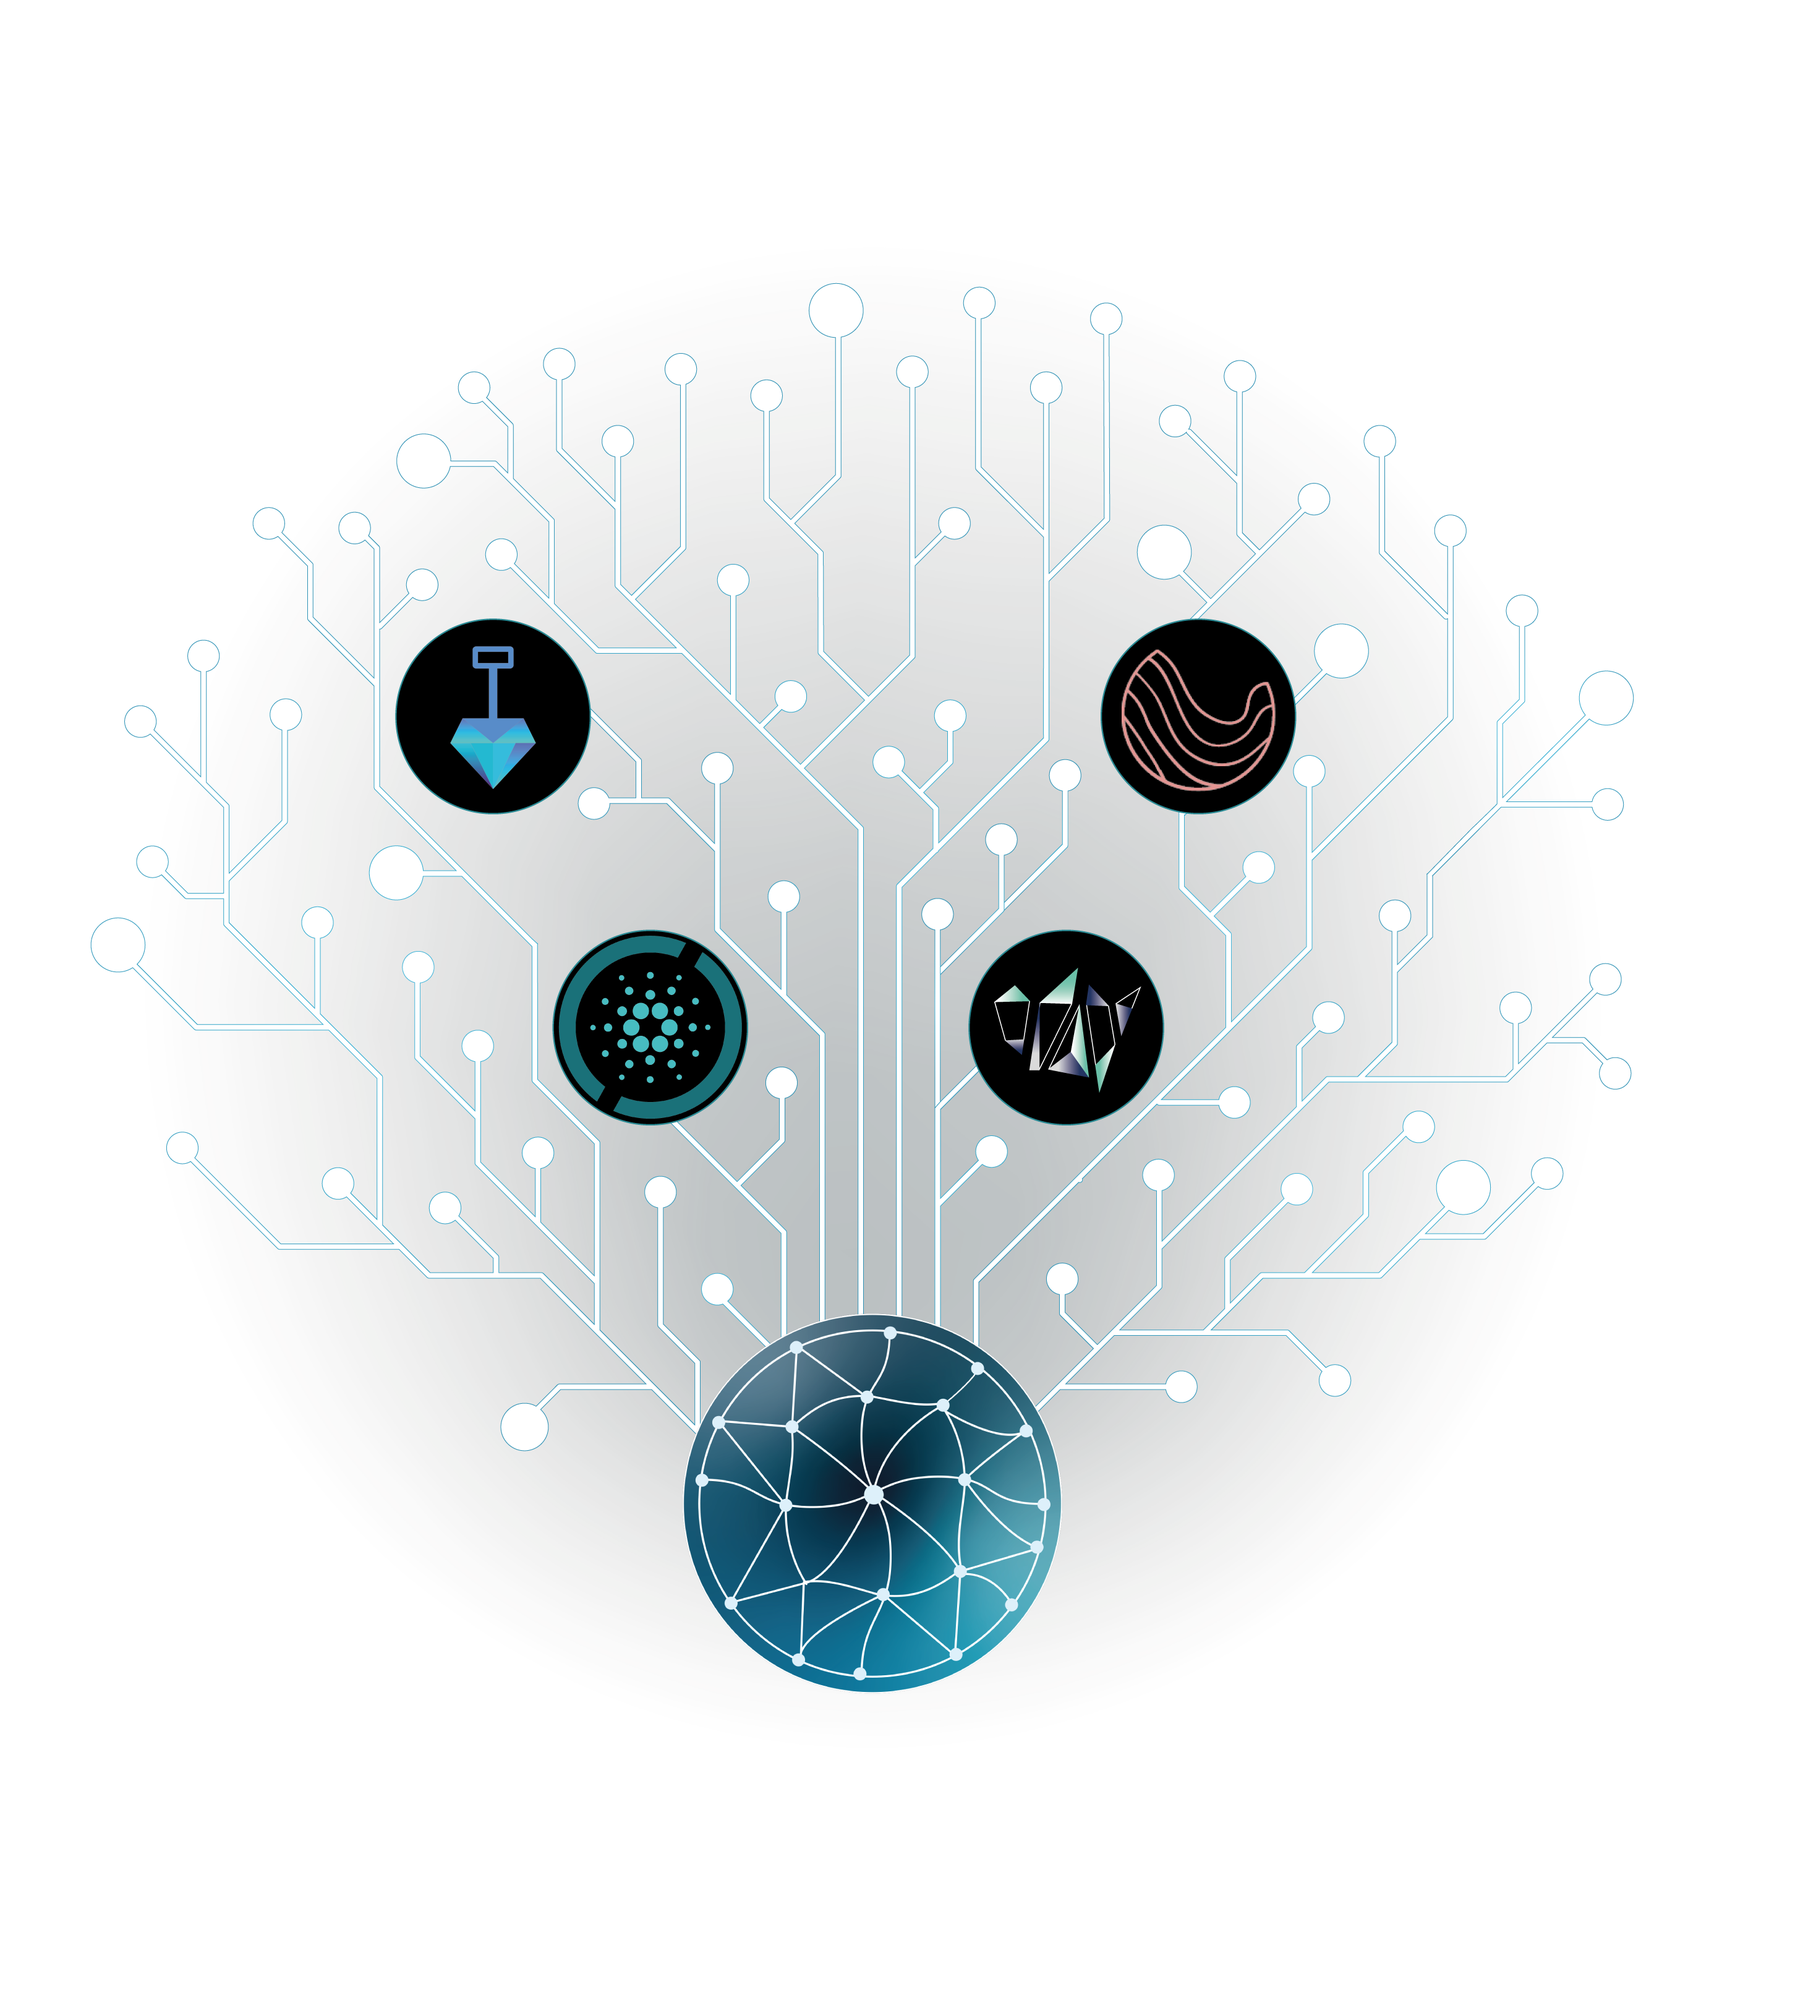
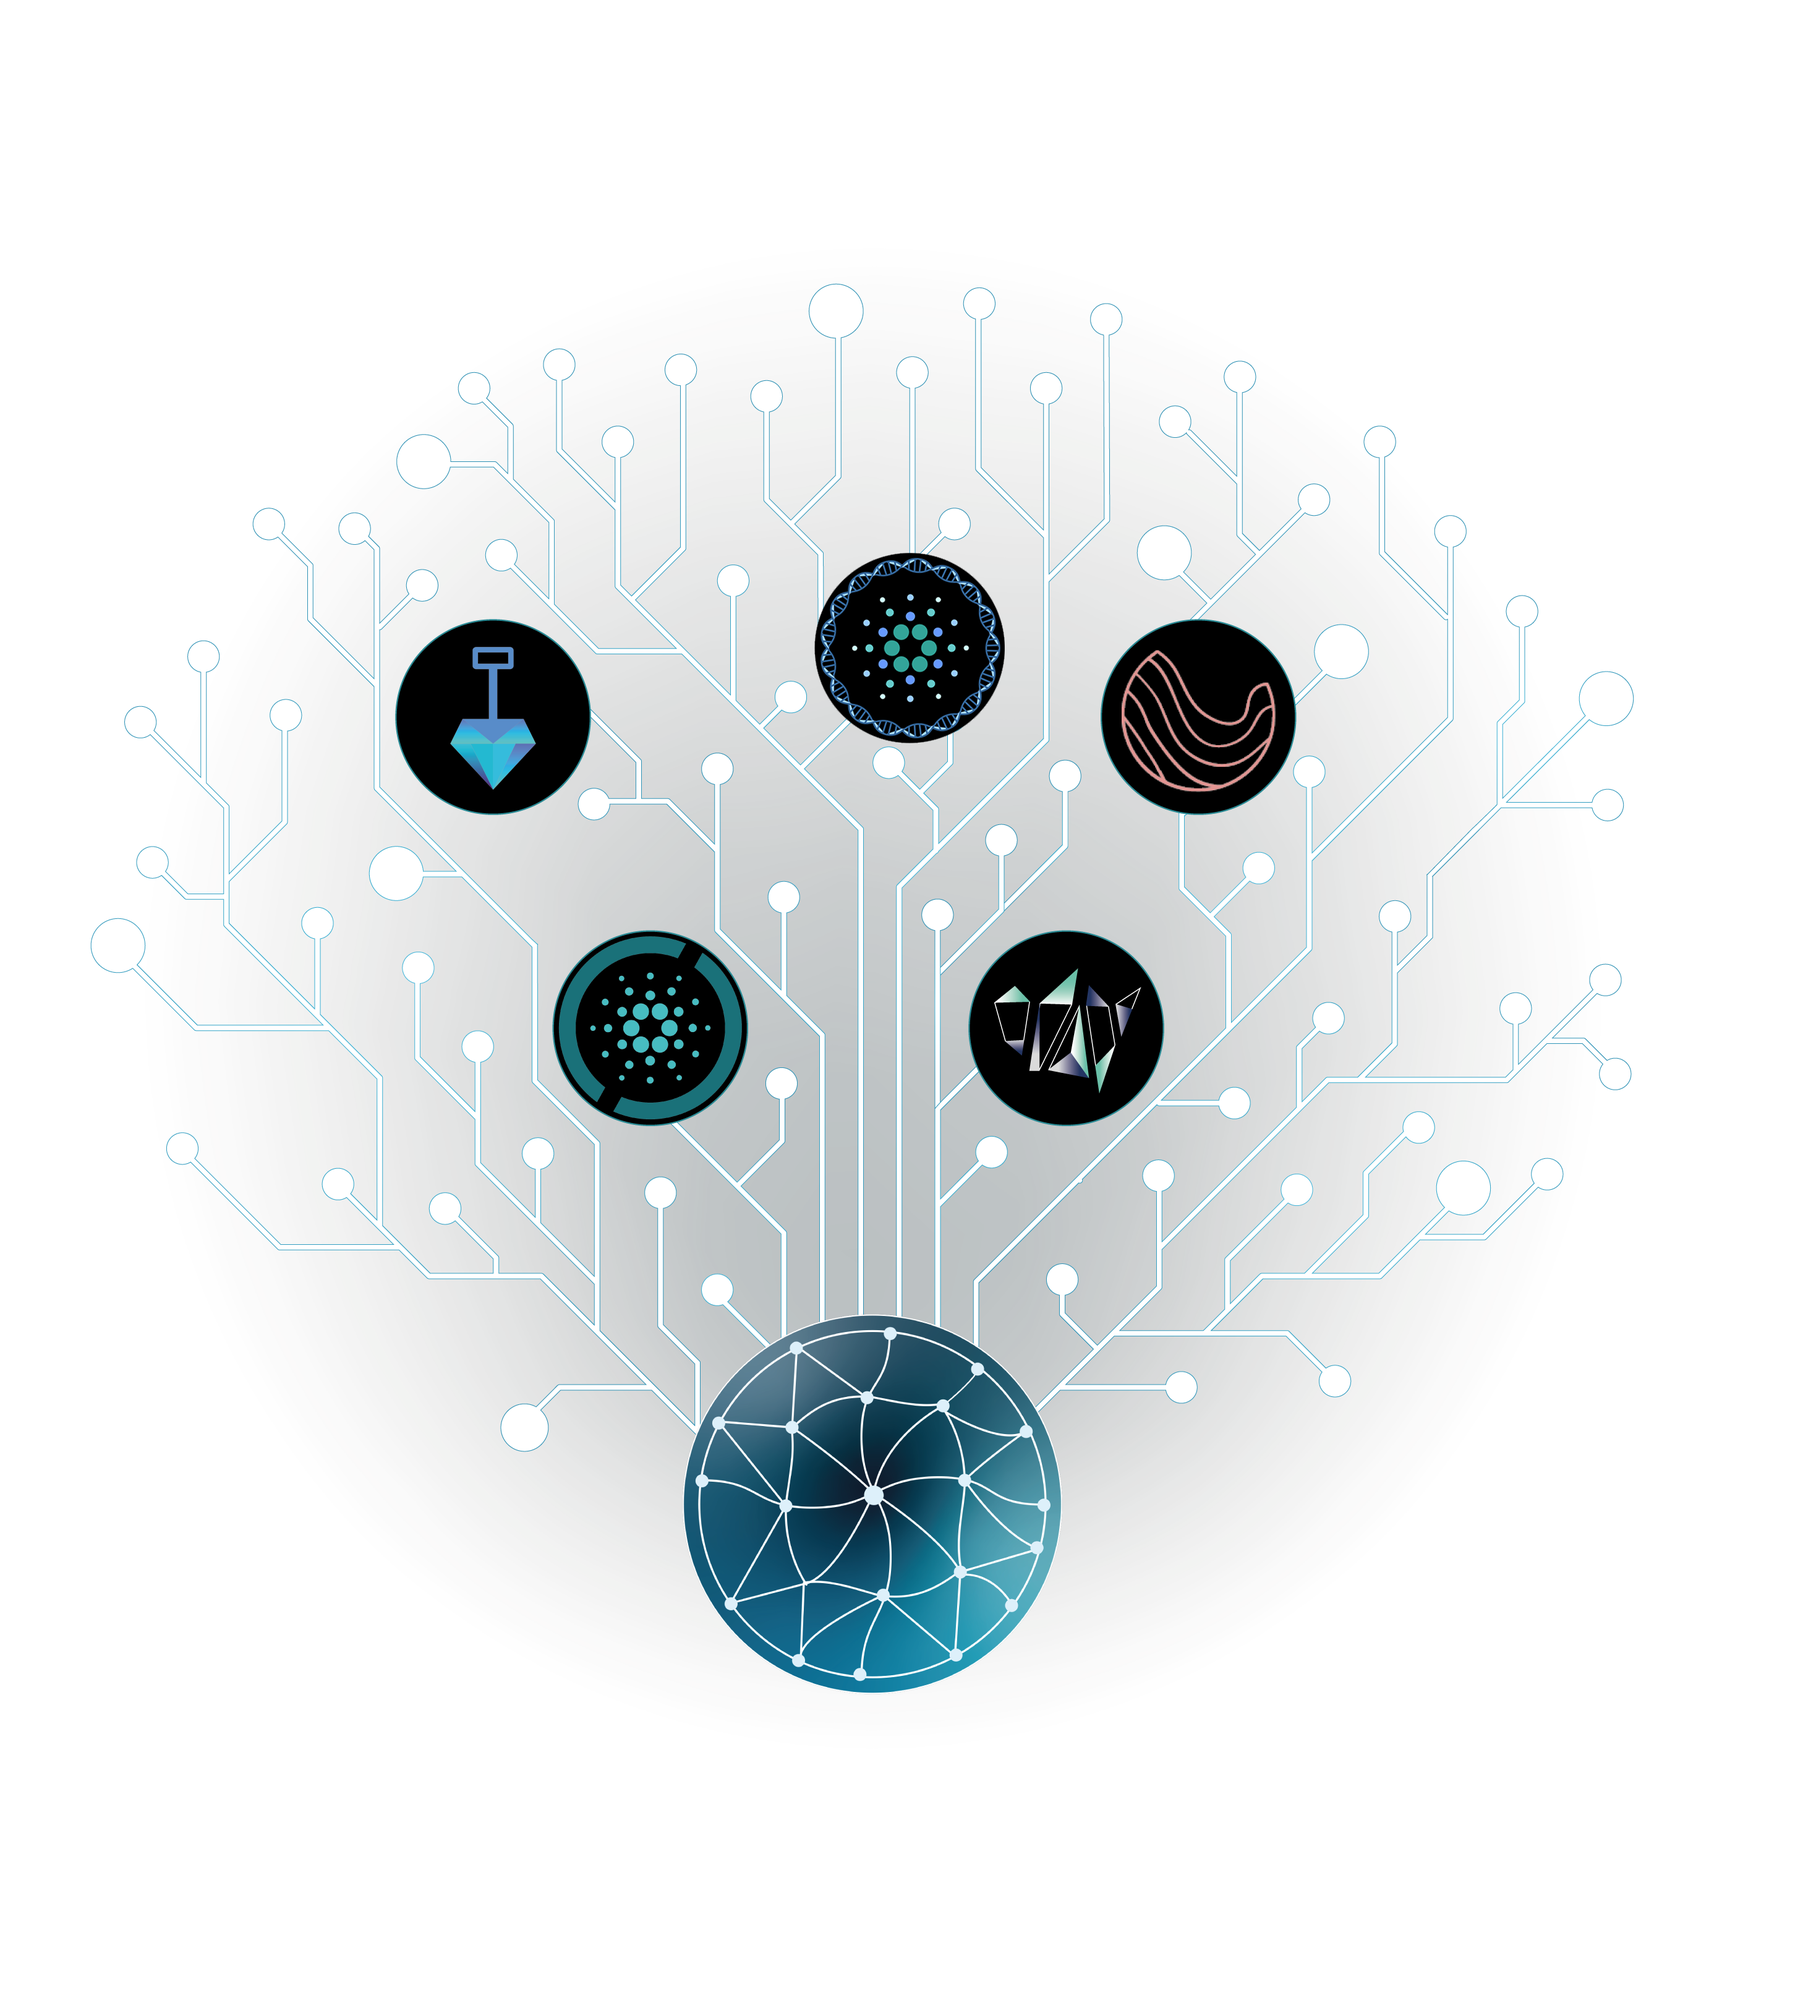
Add Zvone

Changed region(s): [[0.4369, 0.2495, 0.5617, 0.3742], [0.6241, 0.3118, 0.6866, 0.4054], [0.6553, 0.2806, 0.6866, 0.3118]]

diff --git a/src/views/PoolPage/PoolPage.js b/src/views/PoolPage/PoolPage.js
@@ -35,6 +35,8 @@ import CpuLogo from "assets/poolAssets/cpu/cpu_logo.png";
 import CpuBanner from "assets/poolAssets/cpu/CpuBanner.png";
 import MinesLogo from "assets/poolAssets/mines/mines_logo.png";
 import MinesBanner from "assets/poolAssets/mines/MinesBanner.png";
+import CurieLogo from "assets/poolAssets/curie/curie_logo.png";
+import CurieBanner from "assets/poolAssets/curie/CurieBanner.png";
 
 import ProtoLogoGif from "assets/poolAssets/proto/Proto_logo_GIF.gif";
 import ProtoLogoStatic from "assets/poolAssets/proto/Proto_logo_static.png";
@@ -48,6 +50,7 @@ import Patricia from "assets/img/faces/Patricia.jpg";
 import Emil from "assets/img/faces/emil_avatar.jpg";
 import Miha from "assets/img/faces/Miha.jpg";
 import Stjepan from "assets/img/faces/stjepan.jpg";
+import Zvonimir from "assets/img/faces/Zvonimir.jpg";
 
 //components
 import TextBox from "./Components/Textbox.js";
@@ -327,9 +330,8 @@ const ContentWrapper = styled.div`
 `;
 
 const PoolTitle = styled.h1`
-margin-top: 70px
-
-`
+  margin-top: 70px;
+`;
 
 const PoolPage = (props) => {
   const classes = useStyles();
@@ -407,20 +409,26 @@ const PoolPage = (props) => {
     },
     CURIE: {
       name: "Marie Curie Pool |CURIE|",
-      poolColor: "blue",
+      poolColor: "black",
       secondaryColor: "#000",
-      logoColor: "rgb(52, 163, 108)",
+      logoColor: "#336699",
       bodyBackgroundColor: "rgb(52, 163, 108)",
       description: (
         <>
-Marie Curie Pool is operated by young scientist, pharmacist and crypto enthusiast from Croatia who realized the potential of new technologies like blockchain in science and biomedicine. 
-It is inspired by Marie Curie who was dedicated to improvement of science despite all the obstacles she encountered.
+          Marie Curie Pool is operated by young scientist, pharmacist and crypto
+          enthusiast from Croatia who realized the potential of new technologies
+          like blockchain in science and biomedicine. It is inspired by Marie
+          Curie who was dedicated to improvement of science despite all the
+          obstacles she encountered.
         </>
       ),
       descriptionMobile: (
         <>
-Marie Curie Pool is operated by young scientist, pharmacist and crypto enthusiast from Croatia who realized the potential of new technologies like blockchain in science and biomedicine. 
-It is inspired by Marie Curie who was dedicated to improvement of science despite all the obstacles she encountered.         
+          Marie Curie Pool is operated by young scientist, pharmacist and crypto
+          enthusiast from Croatia who realized the potential of new technologies
+          like blockchain in science and biomedicine. It is inspired by Marie
+          Curie who was dedicated to improvement of science despite all the
+          obstacles she encountered.
         </>
       ),
       banner: CurieBanner,
@@ -432,9 +440,10 @@ It is inspired by Marie Curie who was dedicated to improvement of science despit
       telegram: "https://t.me/mariecuriepool",
       logoAnimation: false,
       operators: true,
-      // firstOperator: Zvonimir,
+      firstOperator: Zvonimir,
+      secondOperator: false,
     },
-  
+
     MINES: {
       name: "ADAstra Mines |Mines|",
       poolColor: "black",
@@ -592,16 +601,15 @@ It is inspired by Marie Curie who was dedicated to improvement of science despit
           humans knew, much like Cardano is to the majority of blockchains
           today.
           <br />
-          With Proto pool, we are supporting the  <a
+          With Proto pool, we are supporting the{" "}
+          <a
             href="https://cardano.org/"
             target="_blank"
             rel="noopener noreferrer"
           >
             Cardano
           </a>
-          community and ensuring
-          our delegators secure and smooth process.
-         
+          community and ensuring our delegators secure and smooth process.
         </>
       ),
 
@@ -846,7 +854,7 @@ It is inspired by Marie Curie who was dedicated to improvement of science despit
               ]);
             }
           );
-console.log(context.poolStats[urlParams.id])
+          console.log(context.poolStats[urlParams.id]);
           JSON.parse(context.poolStats[urlParams.id].data.hist_roa).forEach(
             (element) => {
               // console.log(element.val);
@@ -856,7 +864,6 @@ console.log(context.poolStats[urlParams.id])
           );
 
           setRoaStats((roaStats) => [...roaStats, null]);
-
 
           // calculateRewards();
 
@@ -1293,7 +1300,6 @@ console.log(context.poolStats[urlParams.id])
                                   context.poolStats[urlParams.id].data.tax_fix
                                 ) / 1000000
                               );
-                            
                             }}
                           />
                         </RewardsComponent>

diff --git a/src/Context/ContextProvider.js b/src/Context/ContextProvider.js
@@ -14,6 +14,7 @@ const MyProvider = (props) => {
     CPU: "b45c1860e038baa0642b352ccf447ed5e14430342a11dd75bae52f39",
     MINES: "3e5fcbaf750c0291cecb72384091724a1c2d35da10a71473e16c926f",
     PROTO: "b00b421fbc620f0a2fdcf3243265d253b2e30c40da2c172dc5ab4640",
+    CURIE: "6c81475fe8b32b5dfde307325a2cb115de26a466037d0ec76bb499b3",
   };
   const [scrollOffset, setScrollOffset] = useState(0);
   useScrollPosition(({ prevPos, currPos }) => {
@@ -78,6 +79,12 @@ const MyProvider = (props) => {
       setPoolStats,
       "pool",
       "PROTO"
+    );
+    fetchStats(
+      `https://js.adapools.org/pools/${poolIds.CURIE}/summary.json`,
+      setPoolStats,
+      "pool",
+      "CURIE"
     );
   }, []);
 

diff --git a/src/components/Header/HeaderLinks.js b/src/components/Header/HeaderLinks.js
@@ -51,6 +51,9 @@ export default function HeaderLinks(props) {
             <a href="/pool?id=VENUS"  className={classes.dropdownLink}>Fresco Pool [VENUS]</a>,
             <a href="/pool?id=PROTO" className={classes.dropdownLink}>Proto Pool [PROTO]</a>,
             <a href="/pool?id=MINES"  className={classes.dropdownLink}>ADAstra Mines [MINES]</a>,
+            <a href="/pool?id=CURIE"  className={classes.dropdownLink}>Marie Curie Pool [CURIE]</a>,
+
+            
           ]}
         />
       </ListItem>

diff --git a/src/components/Footer/Footer.js b/src/components/Footer/Footer.js
@@ -56,6 +56,11 @@ export default function Footer(props) {
                 [MINES]
               </a>
             </ListItem>
+            <ListItem className={classes.inlineBlock}>
+              <a href="/pool?id=CURIE" className={classes.block}>
+                [CURIE]
+              </a>
+            </ListItem>
           </List>
         </div>
         <div className={classes.right}>
